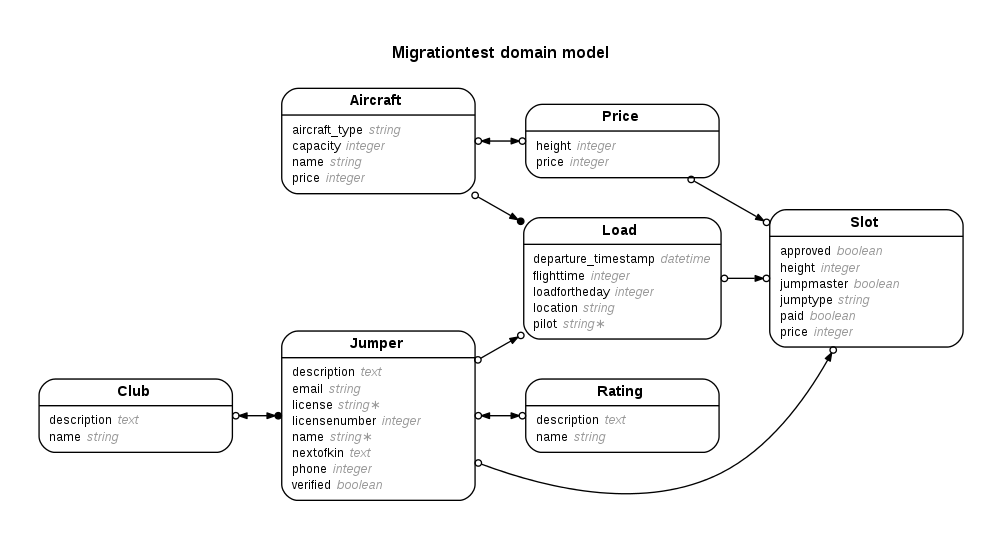
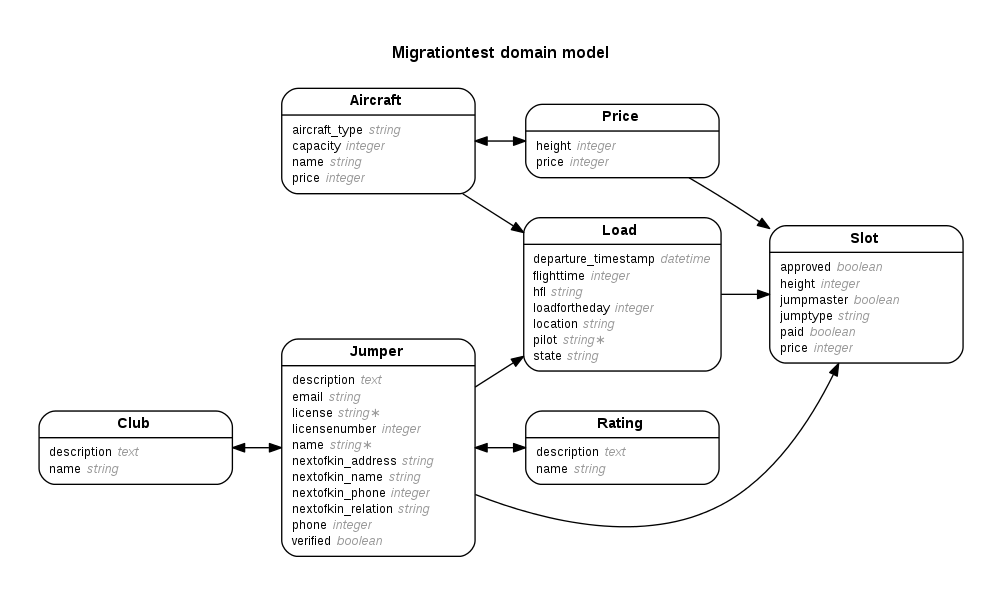
Updated data model from erd. Added default kin types according to NIF rules.

diff --git a/app/models/jumper.rb b/app/models/jumper.rb
@@ -22,6 +22,9 @@ class Jumper < ActiveRecord::Base
     def licenses
       return ["E","A","B","C","D"]
     end
+		def kin_relation
+			return ["Father","Mother","Sibling","Spouse","Friend"]
+		end
  
 #    def frequent_flyer
 #      self.
